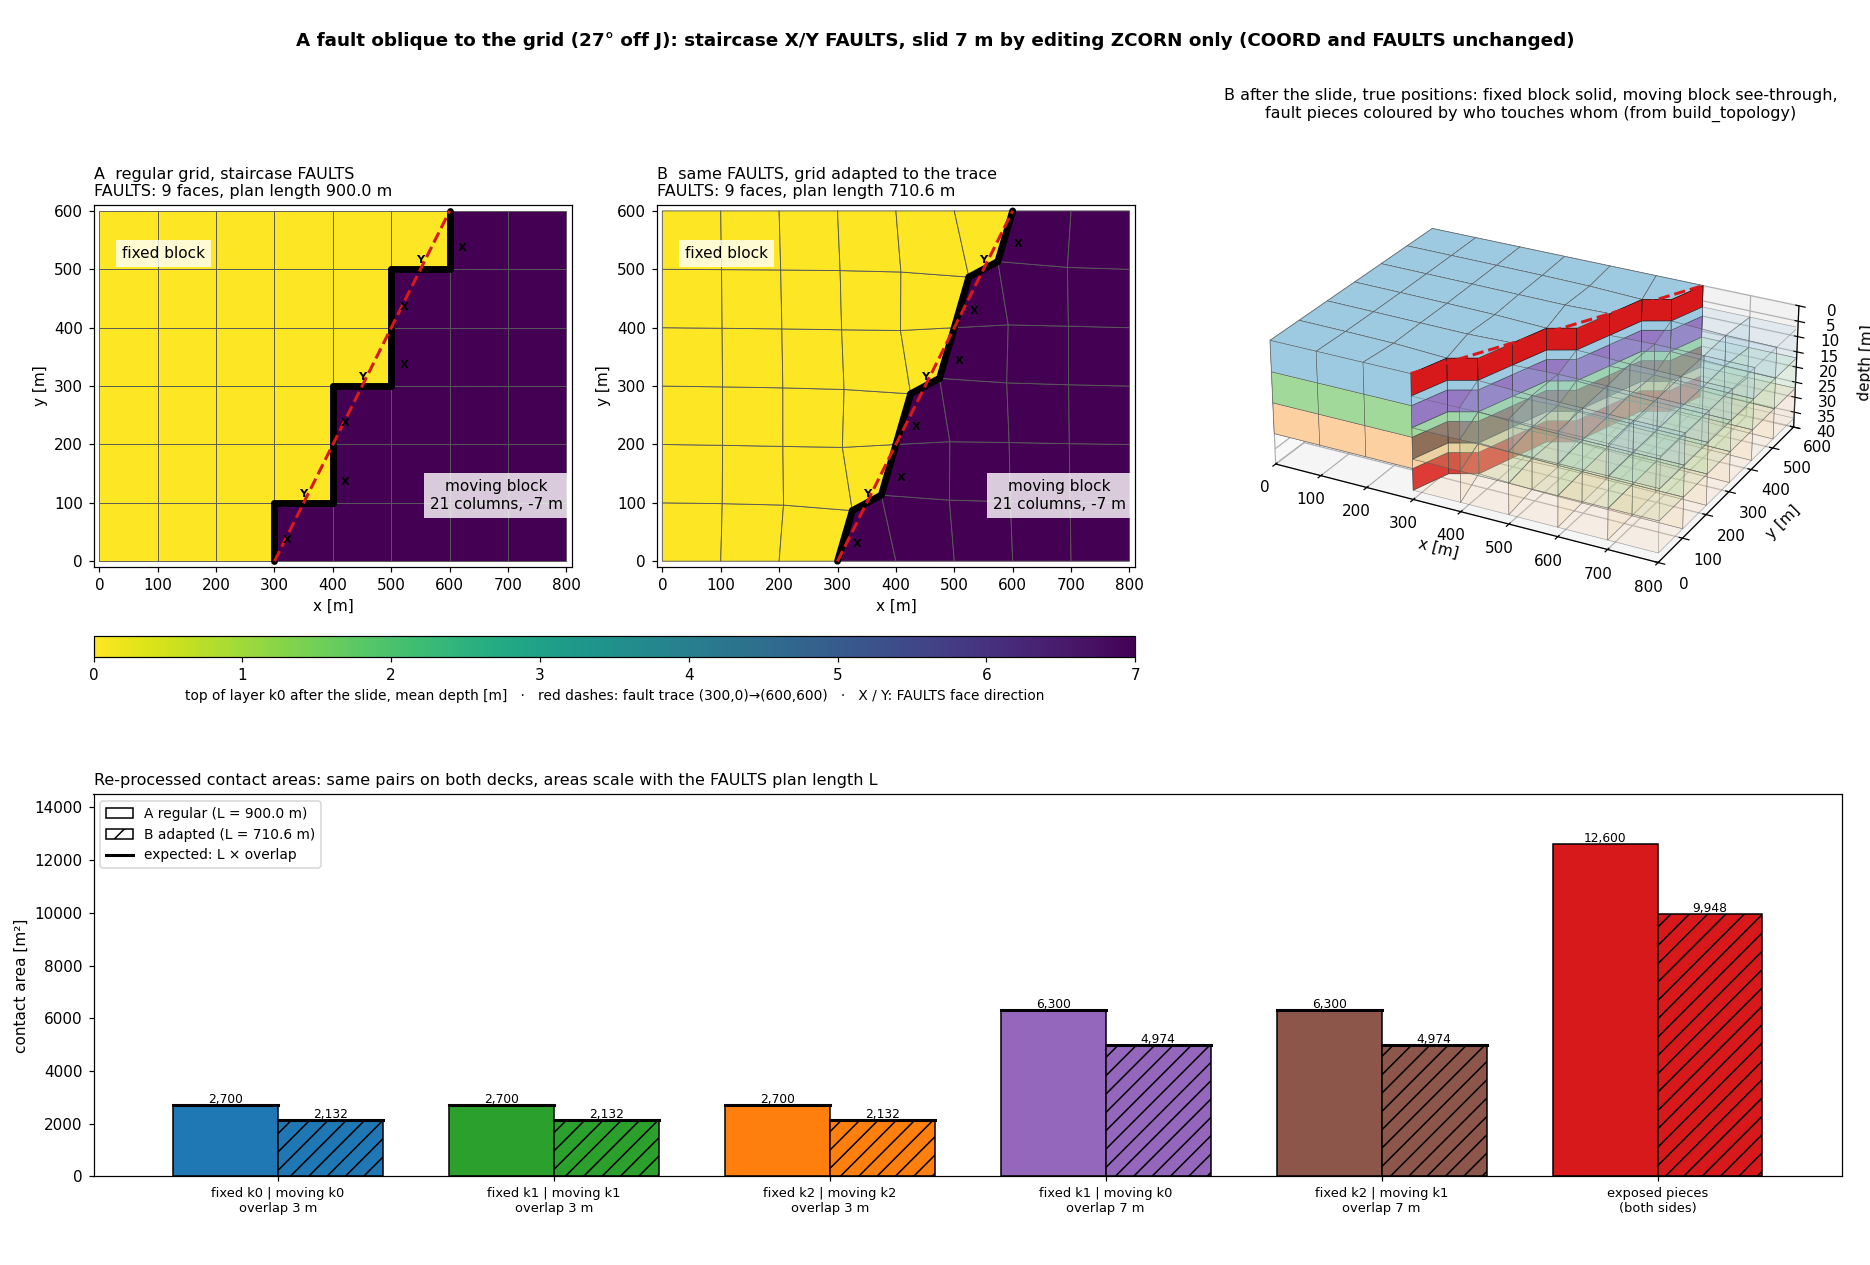
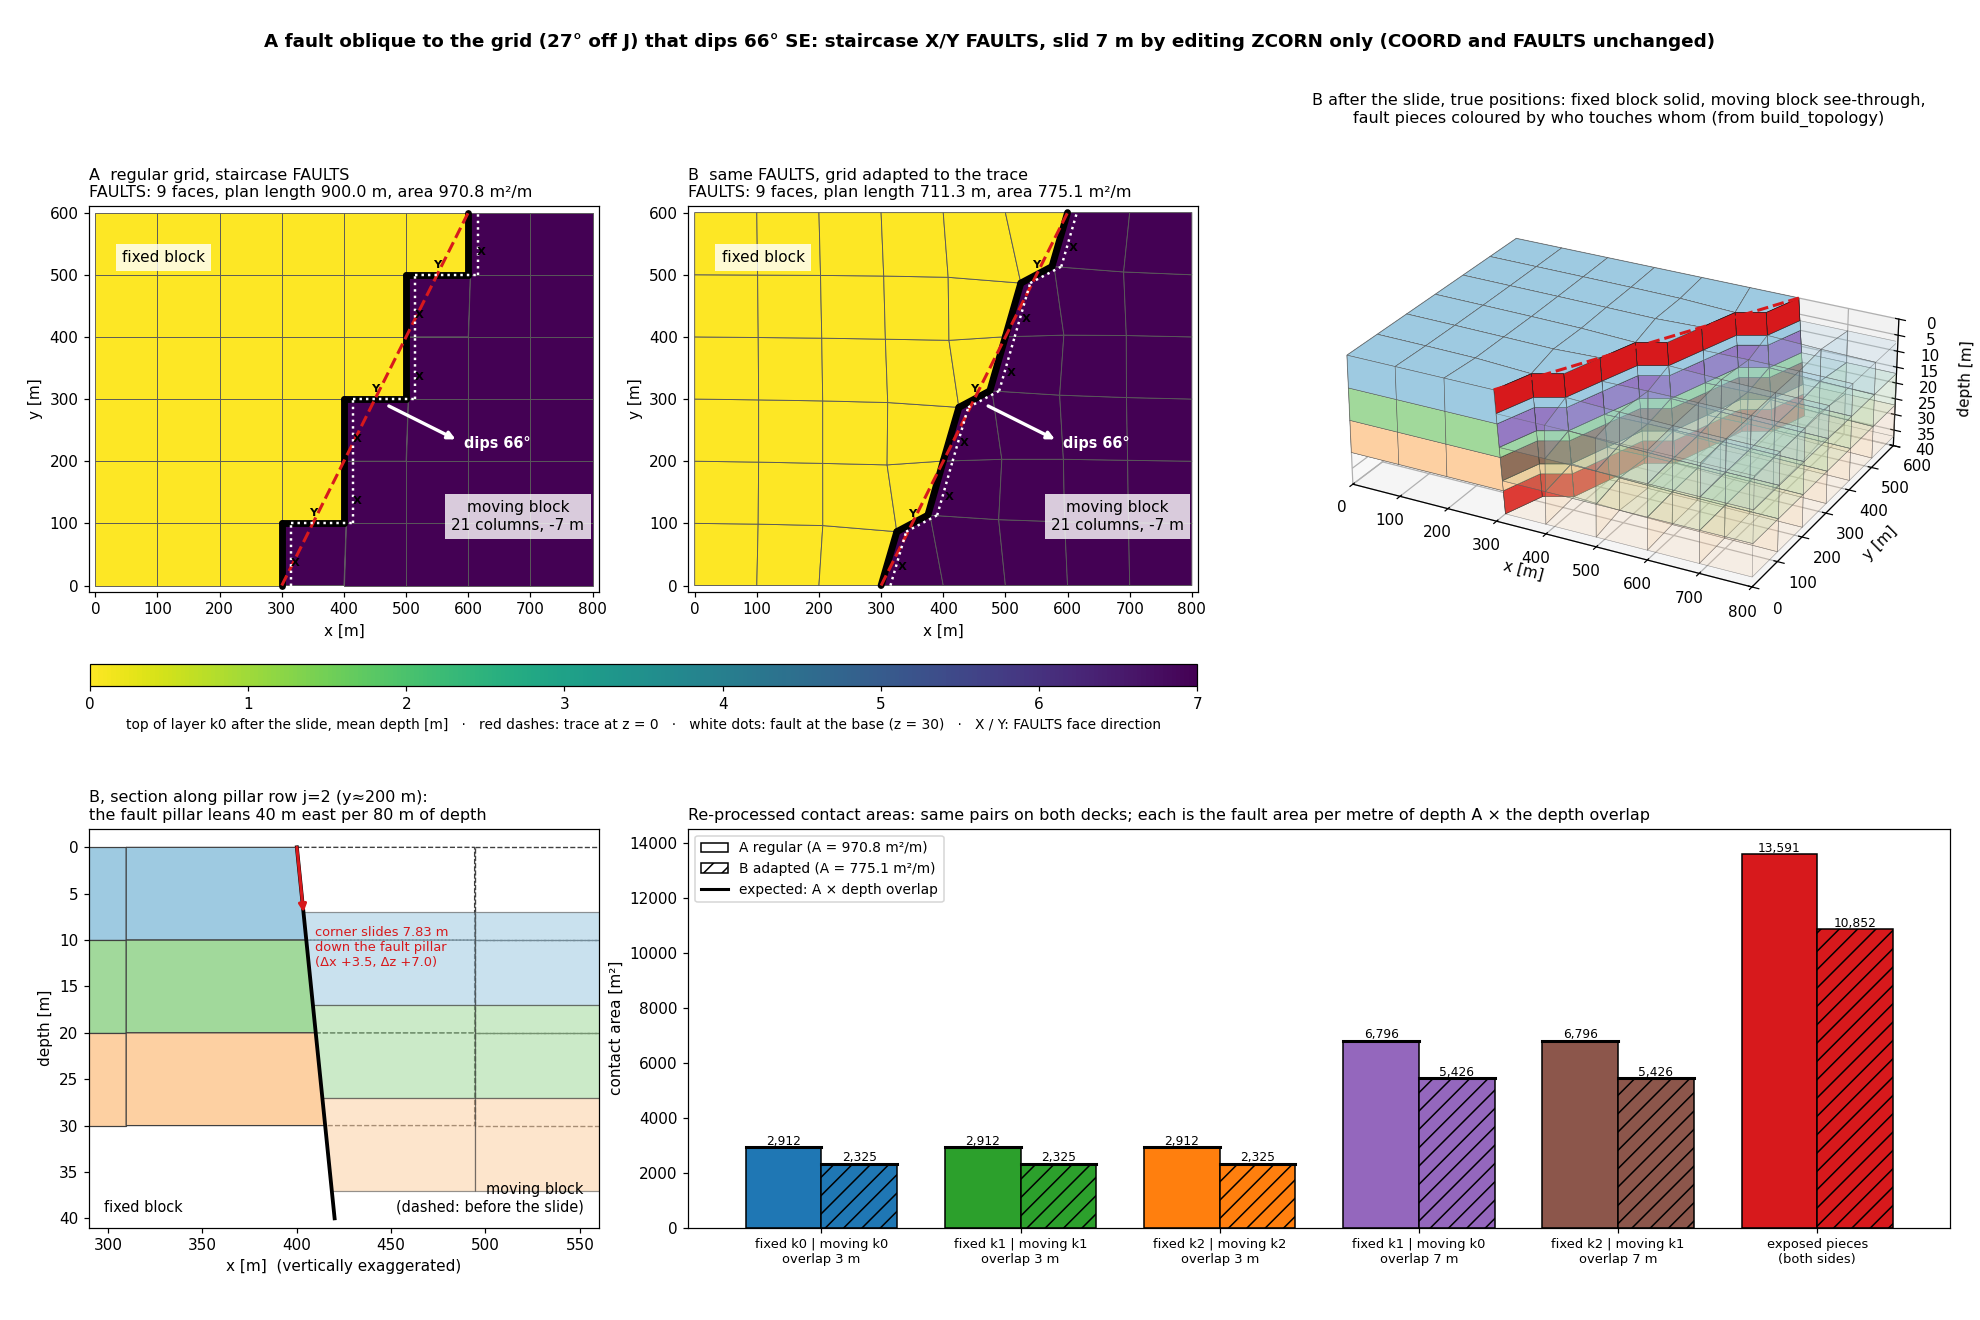
docs: lesson 21 fault also dips (66 deg SE)
The staircase fault pillars keep their tops on the trace and lean 40 m east
by z = 80, so the oblique fault dips. adapt_grid stage 1 keeps the lean.
Contact areas are checked against |edge x lean| per metre of depth; only
moving cells touching a fault pillar change volume. Notes why a stage-2
polygon cannot be used for a rim-to-rim fault under boundary="pinned".

diff --git a/examples/21_z_slide_oblique_fault.py b/examples/21_z_slide_oblique_fault.py
@@ -1,11 +1,13 @@
-"""Slide a fault whose trace is oblique to the grid axes.
+"""Slide a fault that is oblique to the grid axes and dips.
 
-A vertical fault trace runs from (300, 0) to (600, 600), 27 degrees off the J axis of an 8x6x3
-layer cake, so no single pillar line carries it. fault_faces_for turns the trace into a
-staircase of X and Y FAULTS faces. Two decks carry the same FAULTS: (A) the regular grid, whose
-staircase is 900 m long, and (B) the grid after adapt_grid, whose fault pillars sit on the
-trace. In both, the south-east block slides 7 m down its pillars by editing ZCORN only; the
-re-processed contact areas follow the fault length of each deck. Pass --out DIR to keep the decks.
+The fault trace at the top (z = 0) runs from (300, 0) to (600, 600), 27 degrees off the J axis
+of an 8x6x3 layer cake, so no single pillar line carries it. fault_faces_for turns the trace
+into a staircase of X and Y FAULTS faces. The pillars of that staircase keep their tops on the
+trace and lean 40 m east at 80 m depth, so the fault dips about 66 degrees to the south-east.
+Two decks carry the same FAULTS: (A) the regular grid and (B) the grid after adapt_grid, which
+moves the fault pillars rigidly onto the trace and keeps their lean. In both, the south-east
+hanging wall slides 7 m down its pillars by editing ZCORN only; the re-processed contact areas
+follow each deck's fault surface. Pass --out DIR to keep the four decks.
 """
 
 import argparse
@@ -24,14 +26,15 @@ from fault_projections.faults import faults_text
 from fault_projections.from_faults import faults_from_deck
 
 NX, NY, NZ, DX, DZ = 8, 6, 3, 100.0, 10.0
-TRACE = np.array([[300.0, 0.0], [600.0, 600.0]])
+TRACE = np.array([[300.0, 0.0], [600.0, 600.0]])   # fault trace at the top, z = 0
+LEAN = 40.0                                         # fault pillars move 40 m east by z = 80
 THROW = 7.0
 SEED, FAR = (0, NX - 1), (NY - 1, 0)       # (j, i) columns on the moving / fixed side
 
 
-def layer_cake():
-    """Flat 10 m layers on vertical pillars."""
-    coord = [(i * DX, j * DX, 0.0, i * DX, j * DX, 80.0)
+def layer_cake(leaning=()):
+    """Flat 10 m layers; pillars in `leaning` keep their top and move LEAN m east at z = 80."""
+    coord = [(i * DX, j * DX, 0.0, i * DX + (LEAN if (i, j) in leaning else 0.0), j * DX, 80.0)
              for j in range(NY + 1) for i in range(NX + 1)]
     depth = np.repeat(np.arange(NZ) * DZ, 2) + np.tile([0.0, DZ], NZ)   # 0,10,10,20,20,30
     zcorn = np.broadcast_to(depth[:, None, None], (2 * NZ, 2 * NY, 2 * NX)).ravel()
@@ -78,11 +81,20 @@ def slide(grid, faces, throw):
     return replace(grid, zcorn=z.ravel())
 
 
-def fault_length(grid, faces):
-    """Plan-view length of the FAULTS faces, from the pillar tops in COORD."""
-    top = grid.coord.reshape(NY + 1, NX + 1, 6)[:, :, :2]
-    return sum(float(np.linalg.norm(top[b[1], b[0]] - top[a[1], a[0]]))
-               for a, b in map(face_pillars, faces))
+def area_per_metre(grid, faces):
+    """Fault area per metre of depth, from COORD.
+
+    Both pillars of a FAULTS face lean the same way, so the face is a parallelogram: its area
+    between two depths is |edge x lean| times the depth difference, with lean = d(xyz)/dz.
+    """
+    coord = grid.coord.reshape(NY + 1, NX + 1, 6)
+    lean = (coord[..., 3:] - coord[..., :3]) / (coord[..., 5:] - coord[..., 2:3])
+    total = 0.0
+    for a, b in map(face_pillars, faces):
+        assert np.allclose(lean[a[1], a[0]], lean[b[1], b[0]]), "fault pillars must be parallel"
+        edge = coord[b[1], b[0], :3] - coord[a[1], a[0], :3]
+        total += float(np.linalg.norm(np.cross(edge, lean[a[1], a[0]])))
+    return total
 
 
 def unwelded_faces(grid):
@@ -105,7 +117,7 @@ def write_deck(grid, faces, path, header):
 
 
 def reprocess(path, block):
-    """Re-read the deck; return {(k fixed, k moving): area} across the fault and cell volumes."""
+    """Re-read the deck; return {(k fixed, k moving): area} across the fault, cells, volumes."""
     topology = build_topology(from_grdecl(read_grdecl(path)))
     areas = face_geometry(topology.nodes, topology.faces, topology.cell_corners)
     volumes = cell_geometry(topology.nodes, topology.faces, topology.cell_faces, areas).volumes
@@ -120,7 +132,7 @@ def reprocess(path, block):
         fixed, moving = (ca, cb) if block[cb[1], cb[0]] else (cb, ca)
         key = (int(fixed[2]), int(moving[2]))
         found[key] = found.get(key, 0.0) + float(areas.areas[face])
-    return found, volumes
+    return found, ijk, volumes
 
 
 def overlap(k_fixed, k_moving):
@@ -129,8 +141,17 @@ def overlap(k_fixed, k_moving):
     return max(0.0, min((k_fixed + 1) * DZ, (k_moving + 1) * DZ + THROW) - top)
 
 
+def dip_degrees(grid, faces):
+    """Dip of the plane through the top trace and the fault pillars' lean."""
+    coord = grid.coord.reshape(NY + 1, NX + 1, 6)
+    i, j = face_pillars(faces[0])[0]
+    lean = coord[j, i, 3:] - coord[j, i, :3]
+    normal = np.cross(np.append(TRACE[1] - TRACE[0], 0.0), lean)
+    return float(np.degrees(np.arccos(abs(normal[2]) / np.linalg.norm(normal))))
+
+
 def run(name, grid, faces, out):
-    """Write, slide and re-process one deck; return its fault length."""
+    """Write, slide and re-process one deck; return its fault area per metre of depth."""
     path0 = write_deck(grid, faces, out / f"{name}_0_input.grdecl", f"lesson 21 {name}: input")
     on_deck = faults_from_deck(path0)["OBLIQUE"]
     assert on_deck == faces, "FAULTS did not survive the round trip"
@@ -144,41 +165,55 @@ def run(name, grid, faces, out):
     assert unwelded_faces(after) == {(f.i, f.j, f.face) for f in faces}, \
         "the slide opened a face that is not in FAULTS"
 
-    length = fault_length(after, faces)
-    found, volumes = reprocess(path1, block)
-    expected = {(kf, km): length * overlap(kf, km)
+    per_metre = area_per_metre(after, faces)
+    found, ijk, volumes = reprocess(path1, block)
+    expected = {(kf, km): per_metre * overlap(kf, km)
                 for kf in range(NZ) for km in range(NZ) if overlap(kf, km) > 0}
     assert found.keys() == expected.keys(), (sorted(found), sorted(expected))
     for key, area in found.items():
         assert np.isclose(area, expected[key], rtol=1e-9), (key, area, expected[key])
-    _, volumes0 = reprocess(path0, block)
-    assert np.allclose(volumes, volumes0, rtol=1e-12), "vertical pillars keep cell volumes"
+
+    # Corners on a leaning fault pillar move east as they slide down it, so only moving cells
+    # that touch a fault pillar can change volume; the fixed block cannot change at all.
+    _, _, volumes0 = reprocess(path0, block)
+    fault_pillars = {p for f in faces for p in face_pillars(f)}
+    touches = np.array([any((i + di, j + dj) in fault_pillars for di in (0, 1) for dj in (0, 1))
+                        for i, j, _ in ijk])
+    moving = block[ijk[:, 1], ijk[:, 0]]
+    change = volumes / volumes0 - 1.0
+    changed = ~np.isclose(change, 0.0, atol=1e-12)
+    assert not changed[~moving].any(), "a fixed cell changed volume"
+    assert not changed[~touches].any(), "a cell away from the fault pillars changed volume"
 
     n_x = sum(f.face == "X" for f in faces)
     pairs = ", ".join(f"k{kf}|k{km} {a:,.0f}" for (kf, km), a in sorted(found.items()))
-    print(f"{name}: {len(faces)} faces ({n_x} X, {len(faces) - n_x} Y), fault length "
-          f"{length:6.1f} m, {block.sum()} columns slid {THROW:g} m")
+    print(f"{name}: {len(faces)} faces ({n_x} X, {len(faces) - n_x} Y), fault area "
+          f"{per_metre:6.1f} m2 per m of depth, {block.sum()} columns slid {THROW:g} m")
     print(f"  contacts fixed|moving m2: {pairs}")
-    return length
+    print(f"  {changed.sum()} moving cells next to the fault changed volume, "
+          f"{change[changed].min():+.1%} to {change[changed].max():+.1%}")
+    return per_metre
 
 
 def main(out):
     out.mkdir(parents=True, exist_ok=True)
-    regular = layer_cake()
-    staircase = fault_faces_for(regular, TRACE)
+    staircase = fault_faces_for(layer_cake(), TRACE)
+    regular = layer_cake({p for f in staircase for p in face_pillars(f)})
+    assert fault_faces_for(regular, TRACE) == staircase, "the lean should not move the tops"
     adapted = adapt_grid(regular, TRACE, boundary="pinned", w0=0.05, polish="barrier",
                          on_invalid="raise")
     assert adapted.ok and adapted.faces_invariant, adapted.summary()
     assert adapted.faults_after == staircase, "adaptation should keep the FAULTS faces"
-    top = adapted.grid.coord.reshape(-1, 6)
-    assert np.allclose(top[:, :2], top[:, 3:5]), "adapted pillars stay vertical"
-    print(f"trace length {np.linalg.norm(TRACE[1] - TRACE[0]):.1f} m; adapted fault pillars "
-          f"within {adapted.distance_after.max():.1f} m of it "
+    lean = lambda g: g.coord.reshape(-1, 6)[:, 3:5] - g.coord.reshape(-1, 6)[:, :2]  # noqa: E731
+    assert np.allclose(lean(adapted.grid), lean(regular)), "stage 1 keeps every pillar's lean"
+    print(f"trace length {np.linalg.norm(TRACE[1] - TRACE[0]):.1f} m at z = 0; fault dips "
+          f"{dip_degrees(regular, staircase):.1f} deg to the south-east")
+    print(f"adapted fault pillars within {adapted.distance_after.max():.1f} m of the trace "
           f"(regular grid: {adapted.distance_before.max():.1f} m)")
 
-    length_a = run("A_regular", regular, staircase, out)
-    length_b = run("B_adapted", adapted.grid, adapted.faults_after, out)
-    print(f"same FAULTS, same slide; the regular staircase has {length_a / length_b - 1:.0%} "
+    area_a = run("A_regular", regular, staircase, out)
+    area_b = run("B_adapted", adapted.grid, adapted.faults_after, out)
+    print(f"same FAULTS, same slide; the regular staircase has {area_a / area_b - 1:.0%} "
           "more fault area than the adapted grid")
 
 

diff --git a/docs/learn/z-slide.md b/docs/learn/z-slide.md
@@ -94,41 +94,56 @@ the fault, applied to every corner east of the line.
 
 {{ example:20_z_slide_partial_fault.py }}
 
-## A fault oblique to the grid
+## An oblique, dipping fault
 
 Run `python -m fieldbook.cli run 21_z_slide_oblique_fault`. Add
 `--out DIR` to keep the four decks.
 
-The fault trace runs from (300, 0) to (600, 600), 27° off the J axis,
-so no single pillar line carries it. `fault_faces_for` turns it into a
-**staircase** of 6 X faces and 3 Y faces. The flood fill and the
-throw check therefore treat both directions:
+At the top (z = 0), the fault trace runs from (300, 0) to (600, 600),
+27° off the J axis, so no single pillar line carries it.
+`fault_faces_for` turns it into a **staircase** of 6 X faces and 3 Y
+faces. The flood fill and the throw check therefore treat both
+directions:
 
 - an X face at pillar line `i` compares slots `2i-1 | 2i` along I;
 - a Y face at pillar row `j` compares slots `2j-1 | 2j` along J.
 
+The staircase pillars keep their tops on the trace and lean 40 m east
+at 80 m depth. Every fault pillar leans by the same vector, so the
+fault dips 65.9° to the south-east. Each FAULTS face is a planar
+parallelogram, with area `|edge × lean|` per metre of depth.
+
 The lesson runs the same slide on two decks with identical FAULTS:
 
 - **A, regular grid:** the staircase follows the grid lines, so the
-  fault is 900 m long in plan.
-- **B, adapted grid:** `adapt_grid(..., boundary="pinned")` moves the
-  fault pillars onto the trace. The FAULTS faces are unchanged
-  (`faces_invariant`), and the fault is 710.6 m long, against 670.8 m
-  for the trace itself.
+  fault is 900 m long in plan and 970.8 m² per metre of depth.
+- **B, adapted grid:** `adapt_grid(..., boundary="pinned")` takes a
+  2D trace (stage 1). It moves pillars rigidly, so the fault pillars
+  land on the trace and keep their lean. The FAULTS faces are
+  unchanged (`faces_invariant`). The fault is 711.3 m long in plan and
+  775.1 m² per metre of depth.
 
-![Oblique fault, regular and adapted grids](../assets/z-slide/oblique-fault.png)
+A stage-2 dipping polygon is not used here because `boundary="pinned"`
+keeps the rim pillars vertical, and this fault ends on the rim.
+
+![Oblique dipping fault, regular and adapted grids](../assets/z-slide/oblique-fault.png)
 
 **What to expect:**
 
-- **The slide:** in both decks the south-east block of 21 columns
-  slides 7 m. COORD and FAULTS are unchanged.
+- **The slide:** in both decks the south-east hanging wall of 21
+  columns slides 7 m. COORD and FAULTS are unchanged.
+- **Slip along the fault:** a corner on a fault pillar slides 7.83 m
+  along it (Δx +3.5 m, Δz +7 m), so it stays on the fault surface.
+  The slip follows the pillar lean, which is not exactly the dip
+  direction.
 - **Faces that open:** exactly the 9 FAULTS faces lose shared
   corners, X and Y alike.
 - **Contacts:** the same five layer pairs touch in both decks. Each
-  area is the fault's plan length times the depth overlap, so A
-  carries 27 % more contact area than B. For example, fixed k1 |
-  moving k0 is 6,300 m² in A and 4,974 m² in B.
-- **Volumes:** the pillars are vertical, so no cell changes volume.
+  area is the fault area per metre of depth times the depth overlap,
+  so A carries 25 % more contact area than B. For example, fixed k1 |
+  moving k0 is 6,796 m² in A and 5,426 m² in B.
+- **Volumes:** only moving cells that touch a fault pillar change
+  volume (27 cells, −4.0 % to −1.6 %). The fixed block is unchanged.
 - **Steep traces:** keep `adapt_grid` traces gentle on small grids.
   At about 30° or more off the axis here, the regenerated FAULTS
   include a face on the grid rim and `faces_invariant` is False. The

diff --git a/README.md b/README.md
@@ -62,7 +62,7 @@ secrets, so their CI stops at that step.
 | Curved fault | `16_faceted_fault` | Two joined planar facets drive independent top/bottom targets |
 | Coordinate frame | `17_mapaxes_guard` | Expected writer error for transformed EGRID geometry |
 | Reproducibility | `18_case_dossier --out PATH` | JSON case report with input hash, revisions, settings and gates |
-| Z slide | `19_z_slide_sequential`, `20_z_slide_partial_fault`, `21_z_slide_oblique_fault` (`--out PATH` keeps the decks) | ZCORN-only fault slides: two faults in sequence, a fault ending inside the grid with a tapered throw, an oblique staircase fault on a regular and an adapted grid, re-processed contacts |
+| Z slide | `19_z_slide_sequential`, `20_z_slide_partial_fault`, `21_z_slide_oblique_fault` (`--out PATH` keeps the decks) | ZCORN-only fault slides: two faults in sequence, a fault ending inside the grid with a tapered throw, an oblique, dipping staircase fault on a regular and an adapted grid, re-processed contacts |
 
 The [function reference](docs/functions/index.md) documents high-impact calls;
 the [API coverage inventory](docs/reference/coverage.md) distinguishes

diff --git a/docs/reference/limits.md b/docs/reference/limits.md
@@ -22,6 +22,10 @@
     cell face, re-processing raises `NonMatchingZError`.
   - On tilted fault pillars, cells bounded by a moved pillar change
     volume, while their thickness is preserved.
+  - A dipping fault that ends on the grid rim cannot be adapted with a
+    stage-2 polygon under `boundary="pinned"`, because the rim pillars
+    stay vertical. Lesson 21 leans the fault pillars first, then
+    adapts with a 2D trace (stage 1 keeps the lean).
   - Inactive cells and slides across K faces are not covered.
 - **Steep traces with `adapt_grid`:** on lesson 21's 8×6 grid, a
   trace from the south rim to the north rim at about 30° or more off
